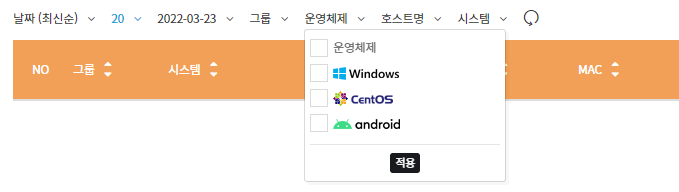
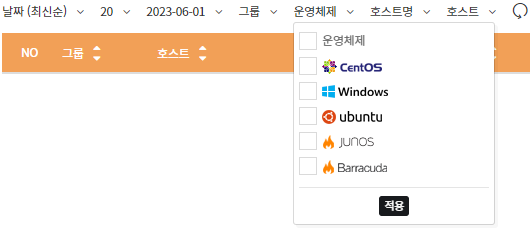
20230601-H1656

diff --git a/ko/plura/v5/function/common/ko_full_log_system.md b/ko/plura/v5/function/common/ko_full_log_system.md
@@ -13,56 +13,56 @@ topnav: topnav
 ## 1. 시간순 정렬
 - 생성일 기준으로 최신순과 과거순으로 정렬할 수 있습니다.
 
-[![image](/docs/images/Manual/common/full_log/system/1.png){: width="800" }](/docs/images/Manual/common/full_log/system/1.png){: target="_blank"}
+[![image](/docs/images/Manual/common/full_log/system/1.png)](/docs/images/Manual/common/full_log/system/1.png){: target="_blank"}
 
 <br />
 
 ## 2. 페이지당 로그 수
-- 한 페이지당 보이는 로그의 수를 20개, 30개, 40개, 50개로 설정할 수 있습니다.
+- 한 페이지당 보이는 로그의 수를 설정할 수 있습니다.
 
-[![image](/docs/images/Manual/common/full_log/system/2.png){: width="800" }](/docs/images/Manual/common/full_log/system/2.png){: target="_blank"}
+[![image](/docs/images/Manual/common/full_log/system/2.png)](/docs/images/Manual/common/full_log/system/2.png){: target="_blank"}
 
 <br />
 
 ## 3. 날짜/시간 선택
 - 지난 날짜와 시간을 선택하여 로그를 볼 수 있습니다.
 
-[![image](/docs/images/Manual/common/full_log/system/3.png){: width="800" }](/docs/images/Manual/common/full_log/system/3.png){: target="_blank"} 
+[![image](/docs/images/Manual/common/full_log/system/3.png)](/docs/images/Manual/common/full_log/system/3.png){: target="_blank"} 
 
 <br />
 
 ## 4. 그룹 선택
-- 사용자가 등록한 시스템 그룹을 선택해서 볼 수 있습니다.
+- 사용자가 등록한 그룹을 선택해서 볼 수 있습니다.
 
-[![image](/docs/images/Manual/common/full_log/system/4.png){: width="800" }](/docs/images/Manual/common/full_log/system/4.png){: target="_blank"}
+[![image](/docs/images/Manual/common/full_log/system/4.png)](/docs/images/Manual/common/full_log/system/4.png){: target="_blank"}
 
 <br />
 
 ## 5. 운영체제 선택
 - 운영체제를 선택해서 볼 수 있습니다.
 
-[![image](/docs/images/Manual/common/full_log/system/5.png){: width="800" }](/docs/images/Manual/common/full_log/system/5.png){: target="_blank"}
+[![image](/docs/images/Manual/common/full_log/system/5.png)](/docs/images/Manual/common/full_log/system/5.png){: target="_blank"}
 
 <br />
 
-## 6. 시스템 IP주소 선택
-- 원하는 시스템 IP주소를 선택해서 볼 수 있습니다.
+## 6. 호스트 선택
+- 원하는 호스트를 선택해서 볼 수 있습니다.
 
-[![image](/docs/images/Manual/common/full_log/system/6.png){: width="800" }](/docs/images/Manual/common/full_log/system/6.png){: target="_blank"} 
+[![image](/docs/images/Manual/common/full_log/system/6.png)](/docs/images/Manual/common/full_log/system/6.png){: target="_blank"} 
 
 <br />
 
 ## 7. 심각도 선택
 - 심각도를 선택하여 볼 수 있습니다.
 
-[![image](/docs/images/Manual/common/full_log/system/7.png){: width="800" }](/docs/images/Manual/common/full_log/system/7.png){: target="_blank"} 
+[![image](/docs/images/Manual/common/full_log/system/7.png)](/docs/images/Manual/common/full_log/system/7.png){: target="_blank"} 
 
 <br />
 
 ## 8. 채널 선택
 - 채널 목록을 클릭하여 필요한 로그만 선택하여 볼 수 있습니다.
 
-[![image](/docs/images/Manual/common/full_log/system/8.png){: width="800" }](/docs/images/Manual/common/full_log/system/8.png){: target="_blank"} 
+[![image](/docs/images/Manual/common/full_log/system/8.png)](/docs/images/Manual/common/full_log/system/8.png){: target="_blank"} 
 
 <br />
 

diff --git a/ko/plura/v5/function/common/ko_full_log_app_source.md b/ko/plura/v5/function/common/ko_full_log_app_source.md
@@ -13,49 +13,49 @@ topnav: topnav
 ## 1. 시간순 정렬
 - 생성일 기준으로 최신순과 과거순으로 정렬할 수 있습니다.
 
-[![image](/docs/images/Manual/common/full_log/source/1.png){: width="800" }](/docs/images/Manual/common/full_log/source/1.png){: target="_blank"}
+[![image](/docs/images/Manual/common/full_log/source/1.png)](/docs/images/Manual/common/full_log/source/1.png){: target="_blank"}
 
 <br />
 
 ## 2. 페이지당 로그 수
-- 한 페이지당 보이는 로그의 수를 20개, 30개, 40개, 50개로 설정할 수 있습니다.
+- 한 페이지당 보이는 로그의 수를 설정할 수 있습니다.
 
-[![image](/docs/images/Manual/common/full_log/source/2.png){: width="800" }](/docs/images/Manual/common/full_log/source/2.png){: target="_blank"} 
+[![image](/docs/images/Manual/common/full_log/source/2.png)](/docs/images/Manual/common/full_log/source/2.png){: target="_blank"} 
 
 <br />
 
 ## 3. 날짜/시간 선택
 - 지난 날짜와 시간을 선택하여 로그를 볼 수 있습니다.
 
-[![image](/docs/images/Manual/common/full_log/source/3.png){: width="800" }](/docs/images/Manual/common/full_log/source/3.png){: target="_blank"} 
+[![image](/docs/images/Manual/common/full_log/source/3.png)](/docs/images/Manual/common/full_log/source/3.png){: target="_blank"} 
 
 <br />
 
 ## 4. 그룹 선택
-- 사용자가 등록한 시스템 그룹을 선택해서 볼 수 있습니다.
+- 사용자가 등록한 그룹을 선택해서 볼 수 있습니다.
 
-[![image](/docs/images/Manual/common/full_log/source/4.png){: width="800" }](/docs/images/Manual/common/full_log/source/4.png){: target="_blank"} 
+[![image](/docs/images/Manual/common/full_log/source/4.png)](/docs/images/Manual/common/full_log/source/4.png){: target="_blank"} 
 
 <br />
 
 ## 5. 운영체제 선택
 - 운영체제를 선택해서 볼 수 있습니다.
 
-[![image](/docs/images/Manual/common/full_log/source/5.png){: width="800" }](/docs/images/Manual/common/full_log/source/5.png){: target="_blank"} 
+[![image](/docs/images/Manual/common/full_log/source/5.png)](/docs/images/Manual/common/full_log/source/5.png){: target="_blank"} 
 
 <br />
 
 ## 6. 호스트명 선택
 - 호스트명을 선택해서 볼 수 있습니다.
 
-[![image](/docs/images/Manual/common/full_log/source/6.png){: width="800" }](/docs/images/Manual/common/full_log/source/6.png){: target="_blank"} 
+[![image](/docs/images/Manual/common/full_log/source/6.png)](/docs/images/Manual/common/full_log/source/6.png){: target="_blank"} 
 
 <br />
 
-## 7. 시스템 IP주소 선택
-- 원하는 시스템 IP주소를 선택해서 볼 수 있습니다.
+## 7. 호스트 선택
+- 원하는 호스트를 선택해서 볼 수 있습니다.
 
-[![image](/docs/images/Manual/common/full_log/source/7.png){: width="800" }](/docs/images/Manual/common/full_log/source/7.png){: target="_blank"}
+[![image](/docs/images/Manual/common/full_log/source/7.png)](/docs/images/Manual/common/full_log/source/7.png){: target="_blank"}
  
 <br />
 

diff --git a/ko/plura/v5/function/common/ko_full_log_app_custom.md b/ko/plura/v5/function/common/ko_full_log_app_custom.md
@@ -25,7 +25,7 @@ topnav: topnav
 <br />
 
 ## 3. 페이지당 로그 수
-- 한 페이지당 보이는 로그의 수를 20개, 30개, 40개, 50개로 설정할 수 있습니다.
+- 한 페이지당 보이는 로그의 수를 설정할 수 있습니다.
 
 [![image](/docs/images/Manual/common/full_log/custom/3.png)](/docs/images/Manual/common/full_log/custom/3.png){: target="_blank"}
 
@@ -39,7 +39,7 @@ topnav: topnav
 <br />
 
 ## 5. 그룹 선택
-- 사용자가 등록한 시스템 그룹을 선택해서 볼 수 있습니다.
+- 사용자가 등록한 그룹을 선택해서 볼 수 있습니다.
 
 [![image](/docs/images/Manual/common/full_log/custom/5.png)](/docs/images/Manual/common/full_log/custom/5.png){: target="_blank"}
 
@@ -59,8 +59,8 @@ topnav: topnav
  
  <br />
 
-## 8. 시스템 IP주소 선택
-- 원하는 시스템 IP주소를 선택해서 볼 수 있습니다.
+## 8. 호스트 선택
+- 원하는 호스트를 선택해서 볼 수 있습니다.
 
 [![image](/docs/images/Manual/common/full_log/custom/8.png)](/docs/images/Manual/common/full_log/custom/8.png){: target="_blank"}
 
